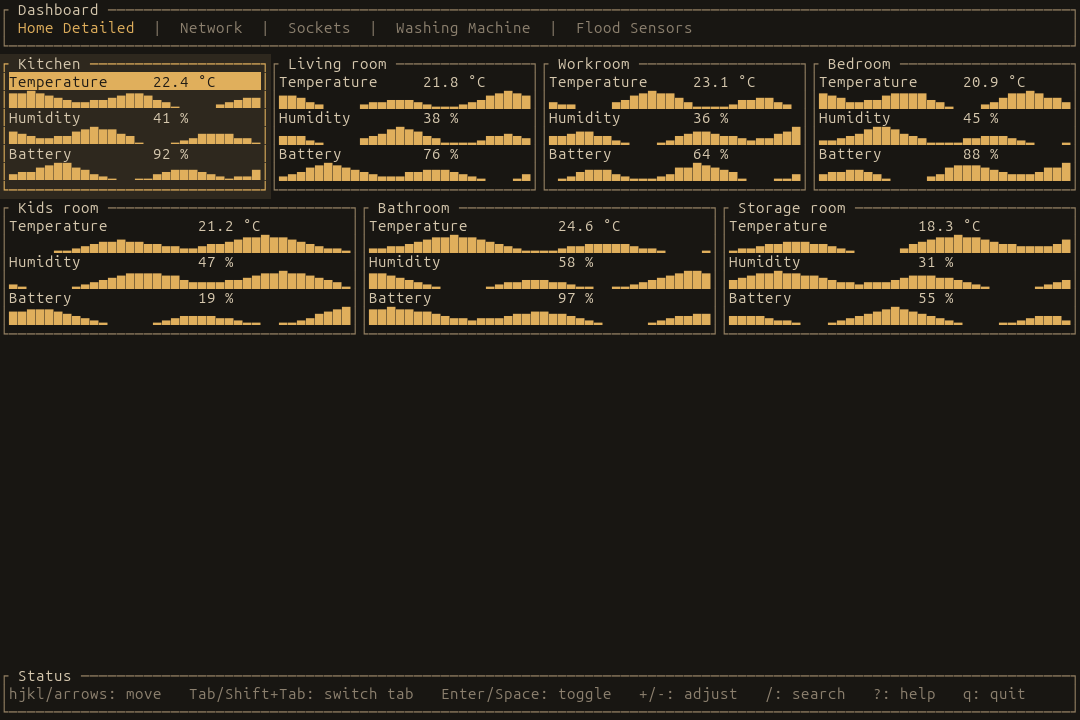
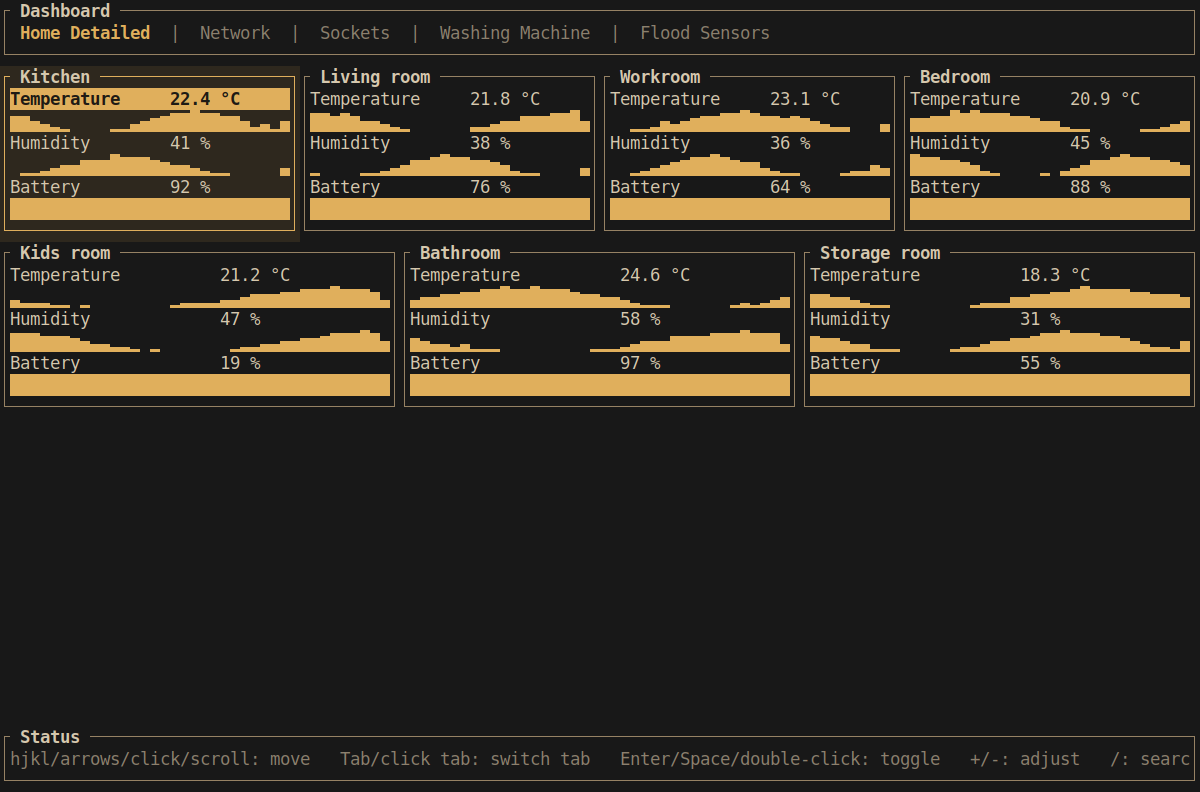
Add an F2 hotkey to toggle mouse capture, and fix the demo battery sparklines
F2 turns mouse capture off/on at runtime, so terminal text selection/copy
still works when needed without giving up the click-to-select mouse mode
added in the previous commits.

Also fixes the demo overview screenshot: the battery sparklines used the
same wavy random-walk generator as temperature/humidity, which doesn't
match how battery sensors actually behave (they barely move over a short
window). Regenerated it by running the real binary against a mock HA
server with flat battery data and natural temperature/humidity variation.

Claude-Session: https://claude.ai/code/session_01FF8SxKA1x9rExKnRLDMRR3

Changed region(s): [[0.0, 0.0, 1.0, 0.5194], [0.0, 0.9167, 1.0, 1.0]]

diff --git a/ha-tui/src/main.rs b/ha-tui/src/main.rs
@@ -1,7 +1,7 @@
 use std::time::{Duration, Instant};
 
 use anyhow::Result;
-use crossterm::event::{MouseButton, MouseEventKind};
+use crossterm::event::{KeyCode, KeyEventKind, MouseButton, MouseEventKind};
 use ha_tui::app::action::{Action, FilterAction};
 use ha_tui::app::registry::Registry;
 use ha_tui::app::AppState;
@@ -73,6 +73,9 @@ async fn main() -> Result<()> {
     // necessarily the same cell within it) within `DOUBLE_CLICK_WINDOW`
     // activates it instead of just selecting it.
     let mut last_row_click: Option<(Instant, usize, usize)> = None;
+    // F2 toggles this off so the terminal's own text selection/copy works
+    // again - while on, the terminal hands every click to us instead.
+    let mut mouse_enabled = true;
     // Only fires often enough to expire stale optimistic updates / status
     // messages (both on a 5s timeout) - not a general redraw tick.
     let mut expiry_tick = tokio::time::interval(Duration::from_millis(500));
@@ -123,119 +126,140 @@ async fn main() -> Result<()> {
             }
             event = input_rx.recv() => {
                 let Some(event) = event else { break };
-                let Some(app) = &mut app else {
+
+                // Works in any mode (help/detail/filter/connecting) and
+                // regardless of what's selected - it's a terminal-level
+                // mode switch, not an app action, so it's handled before
+                // the "no snapshot yet" early-out below.
+                let is_mouse_toggle =
+                    matches!(event, InputEvent::Key(key) if key.kind == KeyEventKind::Press && key.code == KeyCode::F(2));
+
+                if is_mouse_toggle {
+                    mouse_enabled = !mouse_enabled;
+                    if let Err(err) = terminal::set_mouse_capture(mouse_enabled) {
+                        tracing::warn!(%err, "failed to toggle mouse capture");
+                    }
+                    match &mut app {
+                        Some(app) => app.set_status(if mouse_enabled {
+                            "Mouse mode on (F2 to turn off for terminal text selection/copy)"
+                        } else {
+                            "Mouse mode off - terminal text selection/copy enabled (F2 to turn back on)"
+                        }),
+                        None => dirty = false, // nothing drawn yet to show the status on
+                    }
+                } else if let Some(app) = &mut app {
+                    match event {
+                        InputEvent::Key(key) => {
+                            if app.show_help {
+                                // Any key dismisses the help overlay.
+                                app.close_help();
+                            } else if app.detail_entity().is_some() {
+                                // Any key dismisses the detail chart popup.
+                                app.close_detail();
+                            } else if app.is_filter_editing() {
+                                match FilterAction::from_key(key) {
+                                    Some(FilterAction::Push(c)) => app.filter_push_char(c),
+                                    Some(FilterAction::Backspace) => app.filter_backspace(),
+                                    Some(FilterAction::Confirm) => app.confirm_filter(),
+                                    Some(FilterAction::Cancel) => app.cancel_filter(),
+                                    None => dirty = false,
+                                }
+                            } else {
+                                // Column count must match what the card grid
+                                // actually rendered (a terminal-width-dependent
+                                // layout detail AppState doesn't otherwise
+                                // track) so left/right and the up/down
+                                // panel-jump land on the right neighbor.
+                                let columns = ui::cards::columns_for(tui.size().map(|s| s.width).unwrap_or(80), app.visible_cards().len());
+                                match Action::from_key(key) {
+                                    Some(Action::Quit) => break,
+                                    Some(Action::MoveUp) => app.move_up(columns),
+                                    Some(Action::MoveDown) => app.move_down(columns),
+                                    Some(Action::MoveLeft) => app.move_left(columns),
+                                    Some(Action::MoveRight) => app.move_right(columns),
+                                    Some(Action::NextGroup) => app.next_group(),
+                                    Some(Action::PrevGroup) => app.prev_group(),
+                                    Some(Action::StartFilter) => app.start_filter(),
+                                    Some(Action::ClearFilter) => {
+                                        if app.is_filtering() {
+                                            app.cancel_filter();
+                                        } else {
+                                            dirty = false;
+                                        }
+                                    }
+                                    Some(Action::ShowHelp) => app.toggle_help(),
+                                    Some(Action::Toggle) => {
+                                        dirty = activate_selected(app, &cmd_tx);
+                                    }
+                                    Some(Action::Increase) => match app.adjust_selected(1) {
+                                        Some(cmd) => { let _ = cmd_tx.send(cmd); }
+                                        None => dirty = false,
+                                    },
+                                    Some(Action::Decrease) => match app.adjust_selected(-1) {
+                                        Some(cmd) => { let _ = cmd_tx.send(cmd); }
+                                        None => dirty = false,
+                                    },
+                                    None => dirty = false,
+                                }
+                            }
+                        }
+                        InputEvent::Mouse(mouse) => {
+                            // Crossterm also reports drag/move/release as
+                            // distinct `MouseEventKind`s; only a fresh left
+                            // press and scroll ticks are meaningful here.
+                            // Treating every kind as "any input" (like the key
+                            // handler's overlay-dismiss does) would mean the
+                            // *release* of the very click that just opened the
+                            // detail popup immediately closes it again.
+                            let is_click = matches!(mouse.kind, MouseEventKind::Down(MouseButton::Left));
+                            let is_scroll = matches!(mouse.kind, MouseEventKind::ScrollUp | MouseEventKind::ScrollDown);
+
+                            if !is_click && !is_scroll {
+                                dirty = false;
+                            } else if app.show_help {
+                                app.close_help();
+                            } else if app.detail_entity().is_some() {
+                                app.close_detail();
+                            } else if app.is_filter_editing() {
+                                // The filter text box has no mouse affordances.
+                                dirty = false;
+                            } else if is_scroll {
+                                let columns = ui::cards::columns_for(tui.size().map(|s| s.width).unwrap_or(80), app.visible_cards().len());
+                                match mouse.kind {
+                                    MouseEventKind::ScrollUp => app.move_up(columns),
+                                    MouseEventKind::ScrollDown => app.move_down(columns),
+                                    _ => unreachable!("is_scroll only matches these two kinds"),
+                                }
+                            } else {
+                                let pos = Position { x: mouse.column, y: mouse.row };
+                                if let Some(tab) = hits.tabs.iter().find(|t| t.area.contains(pos)) {
+                                    // Dashboard/room switching: a single click
+                                    // acts immediately, no double-click needed.
+                                    app.select_group(tab.index);
+                                } else if let Some(hit) = hits.rows.iter().find(|h| h.area.contains(pos)) {
+                                    app.select(hit.card, hit.row);
+                                    let is_double_click = last_row_click
+                                        .is_some_and(|(at, card, row)| card == hit.card && row == hit.row && at.elapsed() < DOUBLE_CLICK_WINDOW);
+                                    if is_double_click {
+                                        dirty = activate_selected(app, &cmd_tx);
+                                        last_row_click = None;
+                                    } else {
+                                        last_row_click = Some((Instant::now(), hit.card, hit.row));
+                                    }
+                                } else {
+                                    dirty = false;
+                                }
+                            }
+                        }
+                    }
+                } else {
                     // No snapshot yet (still on the "Connecting..." screen)
                     // - still quittable via keyboard, everything else
                     // (including all mouse activity) is a no-op.
                     if matches!(event, InputEvent::Key(key) if Action::from_key(key) == Some(Action::Quit)) {
                         break;
                     }
-                    continue;
-                };
-
-                match event {
-                    InputEvent::Key(key) => {
-                        if app.show_help {
-                            // Any key dismisses the help overlay.
-                            app.close_help();
-                        } else if app.detail_entity().is_some() {
-                            // Any key dismisses the detail chart popup.
-                            app.close_detail();
-                        } else if app.is_filter_editing() {
-                            match FilterAction::from_key(key) {
-                                Some(FilterAction::Push(c)) => app.filter_push_char(c),
-                                Some(FilterAction::Backspace) => app.filter_backspace(),
-                                Some(FilterAction::Confirm) => app.confirm_filter(),
-                                Some(FilterAction::Cancel) => app.cancel_filter(),
-                                None => dirty = false,
-                            }
-                        } else {
-                            // Column count must match what the card grid
-                            // actually rendered (a terminal-width-dependent
-                            // layout detail AppState doesn't otherwise
-                            // track) so left/right and the up/down
-                            // panel-jump land on the right neighbor.
-                            let columns = ui::cards::columns_for(tui.size().map(|s| s.width).unwrap_or(80), app.visible_cards().len());
-                            match Action::from_key(key) {
-                                Some(Action::Quit) => break,
-                                Some(Action::MoveUp) => app.move_up(columns),
-                                Some(Action::MoveDown) => app.move_down(columns),
-                                Some(Action::MoveLeft) => app.move_left(columns),
-                                Some(Action::MoveRight) => app.move_right(columns),
-                                Some(Action::NextGroup) => app.next_group(),
-                                Some(Action::PrevGroup) => app.prev_group(),
-                                Some(Action::StartFilter) => app.start_filter(),
-                                Some(Action::ClearFilter) => {
-                                    if app.is_filtering() {
-                                        app.cancel_filter();
-                                    } else {
-                                        dirty = false;
-                                    }
-                                }
-                                Some(Action::ShowHelp) => app.toggle_help(),
-                                Some(Action::Toggle) => {
-                                    dirty = activate_selected(app, &cmd_tx);
-                                }
-                                Some(Action::Increase) => match app.adjust_selected(1) {
-                                    Some(cmd) => { let _ = cmd_tx.send(cmd); }
-                                    None => dirty = false,
-                                },
-                                Some(Action::Decrease) => match app.adjust_selected(-1) {
-                                    Some(cmd) => { let _ = cmd_tx.send(cmd); }
-                                    None => dirty = false,
-                                },
-                                None => dirty = false,
-                            }
-                        }
-                    }
-                    InputEvent::Mouse(mouse) => {
-                        // Crossterm also reports drag/move/release as
-                        // distinct `MouseEventKind`s; only a fresh left
-                        // press and scroll ticks are meaningful here.
-                        // Treating every kind as "any input" (like the key
-                        // handler's overlay-dismiss does) would mean the
-                        // *release* of the very click that just opened the
-                        // detail popup immediately closes it again.
-                        let is_click = matches!(mouse.kind, MouseEventKind::Down(MouseButton::Left));
-                        let is_scroll = matches!(mouse.kind, MouseEventKind::ScrollUp | MouseEventKind::ScrollDown);
-
-                        if !is_click && !is_scroll {
-                            dirty = false;
-                        } else if app.show_help {
-                            app.close_help();
-                        } else if app.detail_entity().is_some() {
-                            app.close_detail();
-                        } else if app.is_filter_editing() {
-                            // The filter text box has no mouse affordances.
-                            dirty = false;
-                        } else if is_scroll {
-                            let columns = ui::cards::columns_for(tui.size().map(|s| s.width).unwrap_or(80), app.visible_cards().len());
-                            match mouse.kind {
-                                MouseEventKind::ScrollUp => app.move_up(columns),
-                                MouseEventKind::ScrollDown => app.move_down(columns),
-                                _ => unreachable!("is_scroll only matches these two kinds"),
-                            }
-                        } else {
-                            let pos = Position { x: mouse.column, y: mouse.row };
-                            if let Some(tab) = hits.tabs.iter().find(|t| t.area.contains(pos)) {
-                                // Dashboard/room switching: a single click
-                                // acts immediately, no double-click needed.
-                                app.select_group(tab.index);
-                            } else if let Some(hit) = hits.rows.iter().find(|h| h.area.contains(pos)) {
-                                app.select(hit.card, hit.row);
-                                let is_double_click = last_row_click
-                                    .is_some_and(|(at, card, row)| card == hit.card && row == hit.row && at.elapsed() < DOUBLE_CLICK_WINDOW);
-                                if is_double_click {
-                                    dirty = activate_selected(app, &cmd_tx);
-                                    last_row_click = None;
-                                } else {
-                                    last_row_click = Some((Instant::now(), hit.card, hit.row));
-                                }
-                            } else {
-                                dirty = false;
-                            }
-                        }
-                    }
+                    dirty = false;
                 }
             }
             _ = expiry_tick.tick() => {

diff --git a/ha-tui/src/terminal.rs b/ha-tui/src/terminal.rs
@@ -46,3 +46,16 @@ fn restore_terminal() -> Result<()> {
     execute!(io::stdout(), DisableMouseCapture, LeaveAlternateScreen)?;
     Ok(())
 }
+
+/// Turns the terminal's mouse reporting on or off at runtime (bound to a
+/// hotkey in `main`) - with it off, clicks and drags go back to the
+/// terminal's own text selection instead of being captured as app input, so
+/// the user can copy text out of the TUI.
+pub fn set_mouse_capture(enabled: bool) -> Result<()> {
+    if enabled {
+        execute!(io::stdout(), EnableMouseCapture)?;
+    } else {
+        execute!(io::stdout(), DisableMouseCapture)?;
+    }
+    Ok(())
+}

diff --git a/ha-tui/src/ui/help.rs b/ha-tui/src/ui/help.rs
@@ -22,6 +22,7 @@ const LINES: &[&str] = &[
     "",
     "mouse: click a row to select it, double-click to toggle/open its chart",
     "mouse: click a tab to switch to it, scroll to move within a panel",
+    "F2             toggle mouse mode off/on (off = normal terminal text selection/copy)",
     "",
     "press any key or click to close",
 ];

diff --git a/ha-tui/src/app/mod.rs b/ha-tui/src/app/mod.rs
@@ -303,7 +303,7 @@ impl AppState {
         self.status.as_ref().map(|(message, _)| message.as_str())
     }
 
-    fn set_status(&mut self, message: impl Into<String>) {
+    pub fn set_status(&mut self, message: impl Into<String>) {
         self.status = Some((message.into(), Instant::now()));
     }
 

diff --git a/README.md b/README.md
@@ -43,6 +43,7 @@ No web server, no browser, no polling REST endpoints. Just a single binary and a
 - **Live state, live control** — entity states update in real time over the WebSocket event stream; toggle switches, lights, and other controllable entities directly from the grid
 - **History sparklines** — numeric sensors render an inline sparkline pulled from `history/history_during_period`; press `Enter` on a card for a full detail popup with a real time-axis chart
 - **2D panel navigation** — arrow keys move through the card grid spatially (up/down/left/right), not just in list order
+- **Mouse support** — click a tab to switch dashboards, click a row to select it, double-click to activate it (toggle, or open its history chart), scroll to move within a panel; `F2` turns mouse capture off/on so normal terminal text selection/copy still works when you need it
 - **Multi-dashboard tabs** — switch between views (Overview, Network, Climate, whatever your Lovelace config defines) with animated tab transitions
 - **Smart title grouping** — cards sharing a common leading word (e.g. multiple `Washer: ...` sensors) are grouped under one panel title automatically
 - **Masonry & sections layouts** — understands both classic Lovelace `cards` and the newer `sections` dashboard format
@@ -89,10 +90,11 @@ Never commit a real config file — it contains your access token. Treat it like
 | Key | Action |
 |-----|--------|
 | `q` | Quit |
-| `Tab` / `←` `→` | Switch dashboard tab |
-| `↑` `↓` `←` `→` | Navigate the card grid |
-| `Enter` | Activate entity / open detail popup |
+| `Tab` / `←` `→` / click a tab | Switch dashboard tab |
+| `↑` `↓` `←` `→` / click a row / scroll | Navigate / select in the card grid |
+| `Enter` / double-click | Activate entity / open detail popup |
 | `Esc` | Close popup |
+| `F2` | Toggle mouse mode off/on (off restores normal terminal text selection/copy) |
 | `?` | Help overlay |
 
 ## How It Works
